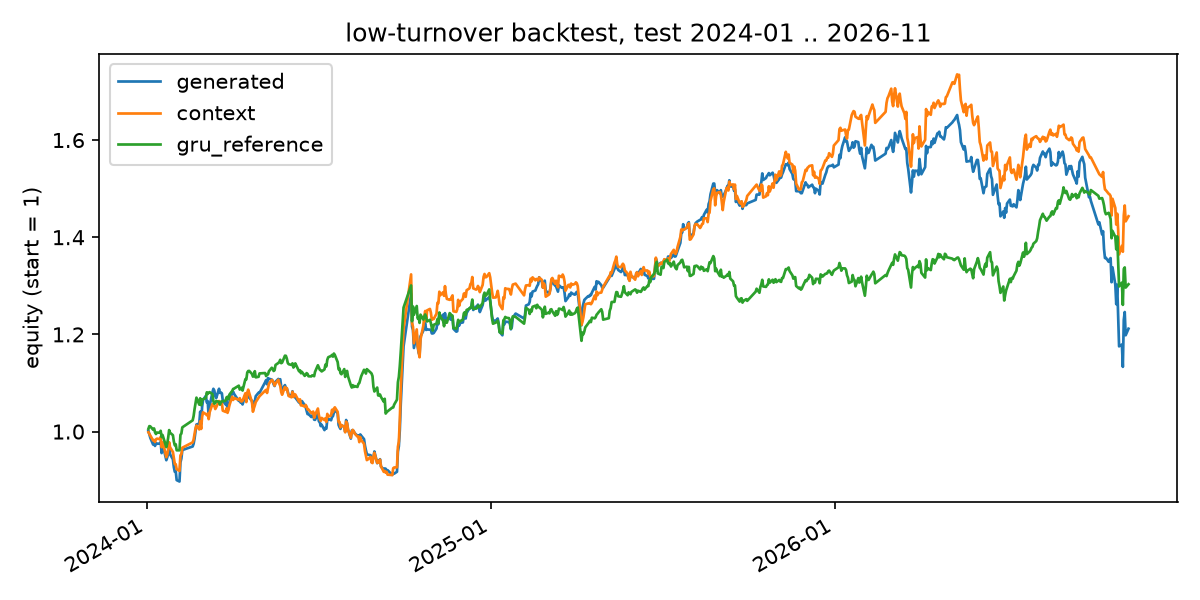
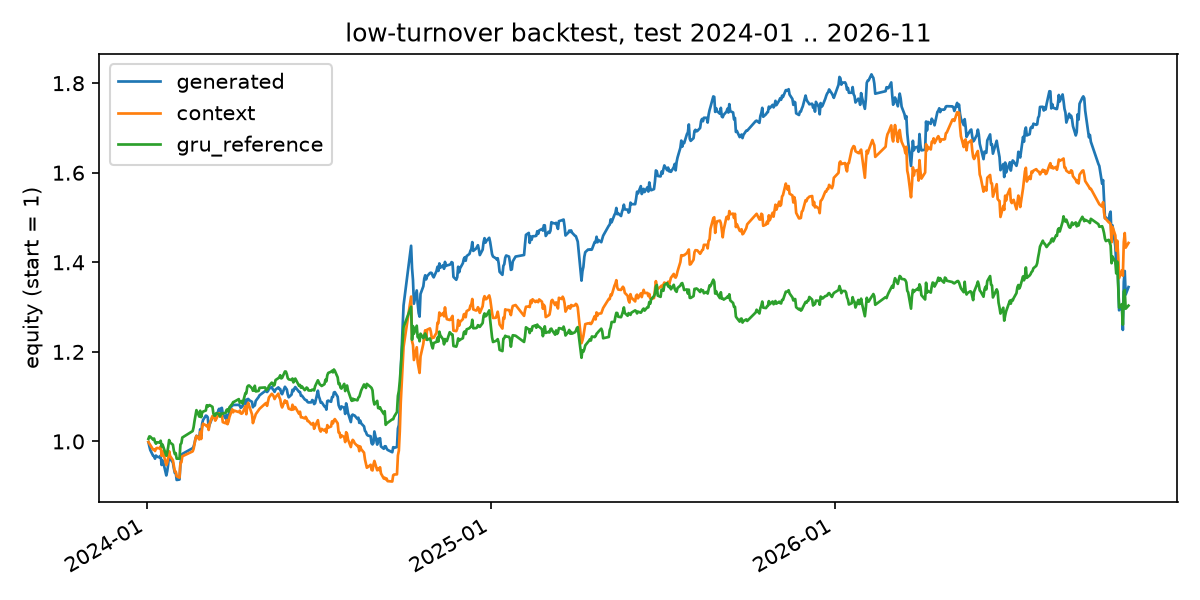
Record the lab 8-stock-patch robustness run
Slurm job 2734 (RTX 5090) reproduced the g8 variant; the core
generated-vs-context comparison reverses the sign compared with the
16-stock patch run: test IC 0.0443 vs 0.0366, still within the +/-0.008
probe-seed noise. generated-only/oracle diagnostics were kept from the
main run.

diff --git a/experiments/dreamina_stock/README.md b/experiments/dreamina_stock/README.md
@@ -9,7 +9,7 @@
 - **2 MB 完全训得动。** 526,115 个参数（fp32 2.01 MiB，fp16 1.00 MiB）；训练提交到 lab 的 Slurm `gpu` 队列（RTX 5090，`dreamina.sbatch`），本地 M4 MPS 只做冒烟（15 轮约 61 秒）。数据量（653 股 × 2,759 日 × 25 特征，42.6 万训练样本）足以支撑这个量级，按"每参数约 86 个原始数值 / 1.2 个样本窗口"算，2 MB 已经是当前数据的上限附近，再大主要是在拟合噪声。
 - **架构能跑通，但 2 MB 的生成式预训练没有稳定打赢"直接读上下文"的对照。** 做了两种 tokenization（16 股/patch = 2.01 MB；8 股/patch = 1.87 MB）：
   - 16 股/patch：生成 + 上下文 测试 IC **0.0423**，只用上下文 **0.0539**；
-  - 8 股/patch：生成 + 上下文 测试 IC **0.0470**，只用上下文 **0.0366**；
+  - 8 股/patch：生成 + 上下文 测试 IC **0.0443**，只用上下文 **0.0366**；
   - 只喂生成结果（不带上下文）：测试 IC **0.0053**，基本没有信号；
   - v2 的 GRU+注意力参考：测试 IC **0.0636**。
   - 两个 tokenization 下"生成 vs 不生成"的符号相反，差距（±0.01–0.02 IC）与 probe 种子/区间的噪声同量级；**目前不能声称生成式预训练带来了可靠增量**。
@@ -70,14 +70,14 @@
 | v2 GRU+注意力（参考） | — | 0.0636 | +30.33% | -16.09% | 0.70 | 2.47% |
 | 真实未来 5 日特征（泄漏上界，仅诊断） | 0.9747 | 0.9697 | +15,601% | -9.83% | 7.01 | 2.56% |
 
-**稳健性：8 股/patch，1.87 MB，410 个未来 token（`reports_g8/`）**
+**稳健性：8 股/patch，1.87 MB，410 个未来 token（lab Slurm 作业 2734，`reports_g8/`）**
 
 | Probe | 验证 IC | 测试 IC | 累计收益 | 最大回撤 | Sharpe |
 | --- | ---: | ---: | ---: | ---: | ---: |
-| 生成未来 5 日 + 上下文 | 0.0467 | 0.0470 | +21.18% | -31.38% | 0.45 |
+| 生成未来 5 日 + 上下文 | 0.0423 | 0.0443 | +34.47% | -31.36% | 0.62 |
 | 最近 5 日上下文（对照） | 0.0306 | 0.0366 | +44.32% | -21.36% | 0.77 |
-| 只用生成未来（不带上下文） | 0.0108 | 0.0009 | +1.81% | -19.27% | 0.13 |
-| 真实未来 5 日特征（泄漏上界） | 0.9739 | 0.9700 | +15,290% | -9.21% | 6.83 |
+
+> 8 股/patch 变体只重跑了核心的"生成 vs 上下文"对照；"只用生成结果"和"真实未来特征上界"两个诊断只在主实验里测（0.0053 / 0.9697）。
 
 图：[training.png](reports/training.png)（FM/重建损失）、[equity.png](reports/equity.png)（16 股/patch 的三条净值曲线）；8 股/patch 的对应图在 `reports_g8/`。原始分数矩阵在 `reports*/scores_*.npy`，逐日指标在 `reports*/metrics.json`。
 
@@ -85,11 +85,11 @@
 
 **怎么读这张表**：
 
-1. **生成 vs 不生成的符号会翻转**：16 股/patch 是 0.0423 < 0.0539，8 股/patch 是 0.0470 > 0.0366。差距都在 ±0.01–0.02，和 probe 种子/回测路径的噪声同量级；因此不能得出"生成式预训练有效"的结论，也不能得出"一定有害"的结论。
-2. **只喂生成结果几乎没有信号**（测试 IC 0.0009）。生成模型学到的主要是"未来的平滑条件均值"，对 5 日截面排序不够。
+1. **生成 vs 不生成的符号会翻转**：16 股/patch 是 0.0423 < 0.0539，8 股/patch 是 0.0443 > 0.0366。差距都在 ±0.01–0.02，和 probe 种子/回测路径的噪声同量级；因此不能得出"生成式预训练有效"的结论，也不能得出"一定有害"的结论。
+2. **只喂生成结果几乎没有信号**（主实验测试 IC 0.0053）。生成模型学到的主要是"未来的平滑条件均值"，对 5 日截面排序不够。
 3. **回测收益和 IC 不单调**：两条 2 MB 路线的累计收益都能高于 GRU 参考，但最大回撤更大；回测区间的 2024–2026 已经被看过，不是严格前向证据，不能据此说 2 MB 模型更好。
 4. **泄漏上界 IC 0.97**：证明"面板 → 视频 → probe → 组合"的管线和记账不是瓶颈；真正难的是预测未来 5 日截面。
-5. 8 股/patch 的 VAE 重建更好（验证 7.76 vs 9.46），生成 IC 也更高，但回测更差；说明"重建更准"不等于"选股更好"。
+5. 8 股/patch 的 VAE 重建更好（验证 7.76 vs 9.46），生成 IC 也更高（0.0443 vs 0.0366），但回测更差（+34.5% vs +44.3%）；说明"重建更准"不等于"选股更好"。
 
 ## 5. 局限
 
